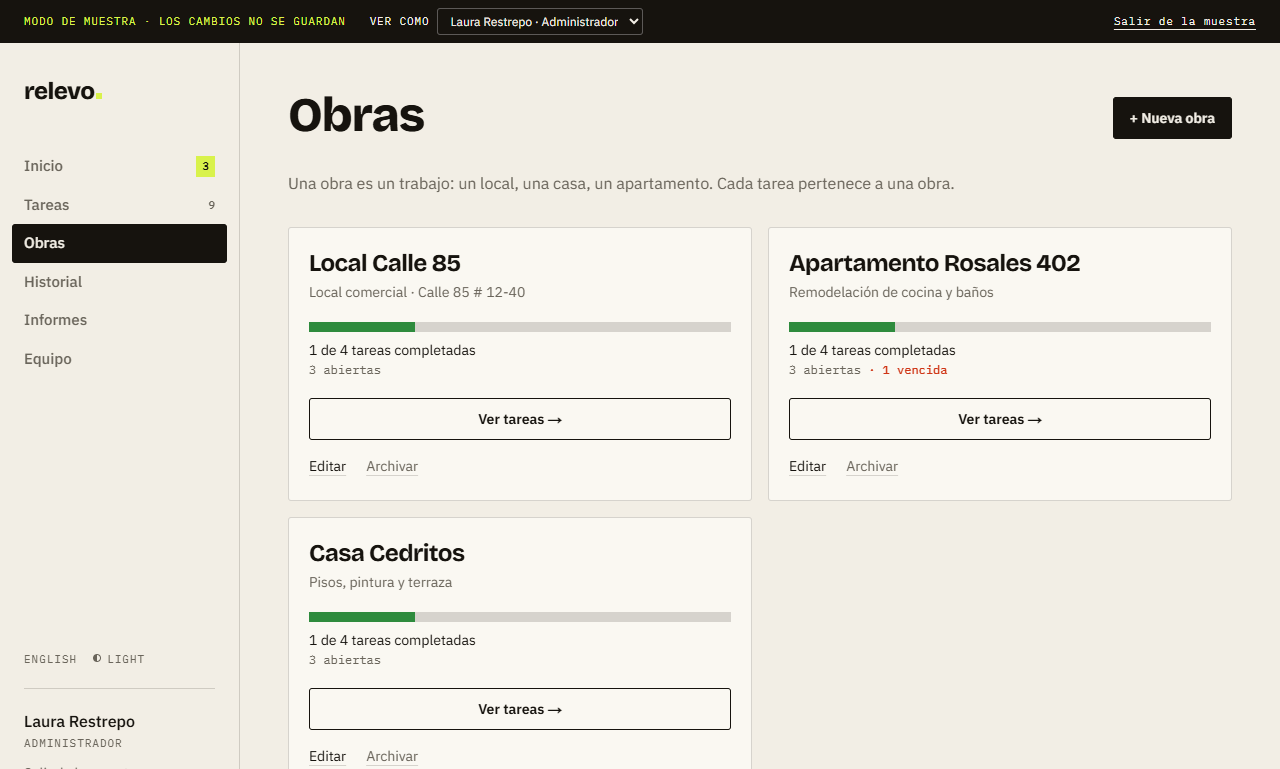
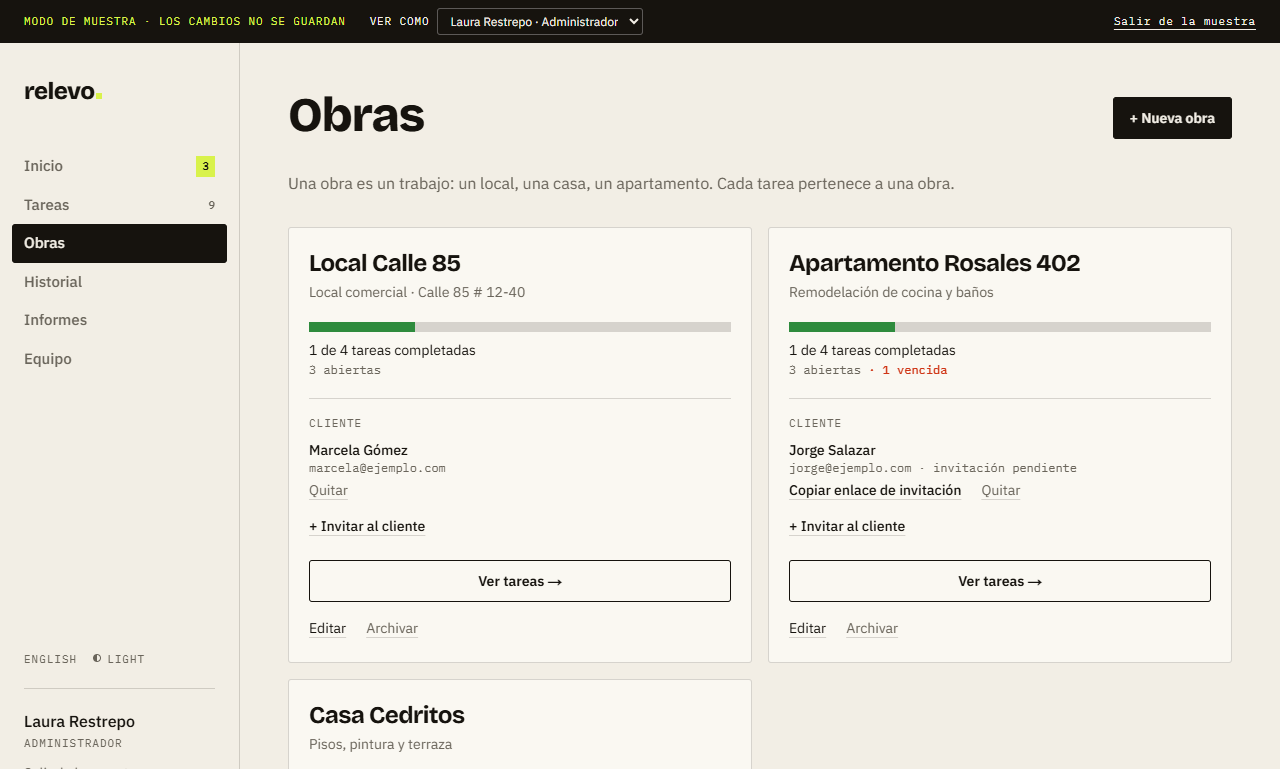
Capturas de la vista del cliente

diff --git a/fiverr/index.html b/fiverr/index.html
@@ -96,7 +96,7 @@ GOOD TO KNOW
 Message me before ordering to confirm the scope.</pre><button type="button" class="copiar">Copiar</button></div>
 <h3>6 · Preguntas frecuentes</h3><p class="nota">Cada bloque es una pregunta y su respuesta.</p><div class="par"><div class="copiable "><pre>Can a team member see other people&#x27;s tasks?</pre><button type="button" class="copiar">Copiar</button></div><div class="copiable "><pre>No. The database itself only returns each person their own tasks and history. The admin sees everything.</pre><button type="button" class="copiar">Copiar</button></div></div><div class="par"><div class="copiable "><pre>How do users get access?</pre><button type="button" class="copiar">Copiar</button></div><div class="copiable "><pre>The admin creates an invitation and sends a one-time link. Each person sets their own password, so the admin never knows it. Access can be deactivated at any time.</pre><button type="button" class="copiar">Copiar</button></div></div><div class="par"><div class="copiable "><pre>Can you change the statuses, fields or workflow?</pre><button type="button" class="copiar">Copiar</button></div><div class="copiable "><pre>Yes, in the Premium package or as a custom offer. Tell me what your process looks like and I will confirm what is needed before you order.</pre><button type="button" class="copiar">Copiar</button></div></div><div class="par"><div class="copiable "><pre>Does it send email notifications?</pre><button type="button" class="copiar">Copiar</button></div><div class="copiable "><pre>Account emails (confirmation and password reset) are included. Notifications for each task step are not included; I can add them as a custom extra.</pre><button type="button" class="copiar">Copiar</button></div></div><div class="par"><div class="copiable "><pre>Are there monthly costs?</pre><button type="button" class="copiar">Copiar</button></div><div class="copiable "><pre>The hosting and database services have free plans that are enough for a small team. Larger teams may need a paid plan, and I tell you what applies before you order.</pre><button type="button" class="copiar">Copiar</button></div></div>
 <h3>7 · Preguntas para el comprador</h3><p class="nota">Van en el paso «Requirements». Déjalas como texto libre.</p><div class="copiable "><pre>Your company or team name and your logo (if you have one).</pre><button type="button" class="copiar">Copiar</button></div><div class="copiable "><pre>How many people will use it, and who will be the admin (name and email)?</pre><button type="button" class="copiar">Copiar</button></div><div class="copiable "><pre>Does the workflow in the demo fit your process, or do you need changes?</pre><button type="button" class="copiar">Copiar</button></div><div class="copiable "><pre>Which language should the app start in: English or Spanish?</pre><button type="button" class="copiar">Copiar</button></div><div class="copiable "><pre>Do you already own a domain? If yes, where did you buy it?</pre><button type="button" class="copiar">Copiar</button></div>
-<h3>8 · Imágenes</h3><p class="nota">Están en la carpeta <code>fiverr/imagenes</code>, al lado de esta página.</p><div class="imgs"><a class="img" href="imagenes/1-portada.png" target="_blank"><img src="imagenes/1-portada.png" alt="Portada (súbela primero)" loading="lazy"><span>1-portada.png · Portada (súbela primero)</span></a><a class="img" href="imagenes/2-como-funciona.png" target="_blank"><img src="imagenes/2-como-funciona.png" alt="Cómo funciona" loading="lazy"><span>2-como-funciona.png · Cómo funciona</span></a><a class="img" href="imagenes/3-informes.png" target="_blank"><img src="imagenes/3-informes.png" alt="Informes" loading="lazy"><span>3-informes.png · Informes</span></a><a class="img" href="imagenes/extra-tablero-admin.png" target="_blank"><img src="imagenes/extra-tablero-admin.png" alt="Extra · Tablero del administrador" loading="lazy"><span>extra-tablero-admin.png · Extra · Tablero del administrador</span></a><a class="img" href="imagenes/extra-lista-de-tareas.png" target="_blank"><img src="imagenes/extra-lista-de-tareas.png" alt="Extra · Lista de tareas por obra" loading="lazy"><span>extra-lista-de-tareas.png · Extra · Lista de tareas por obra</span></a><a class="img" href="imagenes/extra-obras.png" target="_blank"><img src="imagenes/extra-obras.png" alt="Extra · Obras y su avance" loading="lazy"><span>extra-obras.png · Extra · Obras y su avance</span></a><a class="img" href="imagenes/extra-revision.png" target="_blank"><img src="imagenes/extra-revision.png" alt="Extra · Revisión de una entrega" loading="lazy"><span>extra-revision.png · Extra · Revisión de una entrega</span></a><a class="img" href="imagenes/extra-tablero-empleado.png" target="_blank"><img src="imagenes/extra-tablero-empleado.png" alt="Extra · Tablero del empleado" loading="lazy"><span>extra-tablero-empleado.png · Extra · Tablero del empleado</span></a><a class="img" href="imagenes/extra-tarea-empleado.png" target="_blank"><img src="imagenes/extra-tarea-empleado.png" alt="Extra · Tarea vista por el empleado" loading="lazy"><span>extra-tarea-empleado.png · Extra · Tarea vista por el empleado</span></a><a class="img" href="imagenes/extra-equipo.png" target="_blank"><img src="imagenes/extra-equipo.png" alt="Extra · Equipo e invitaciones" loading="lazy"><span>extra-equipo.png · Extra · Equipo e invitaciones</span></a><a class="img" href="imagenes/extra-historial.png" target="_blank"><img src="imagenes/extra-historial.png" alt="Extra · Historial" loading="lazy"><span>extra-historial.png · Extra · Historial</span></a><a class="img" href="imagenes/extra-modo-oscuro.png" target="_blank"><img src="imagenes/extra-modo-oscuro.png" alt="Extra · Modo oscuro" loading="lazy"><span>extra-modo-oscuro.png · Extra · Modo oscuro</span></a><a class="img" href="imagenes/extra-entrada.png" target="_blank"><img src="imagenes/extra-entrada.png" alt="Extra · Página de entrada" loading="lazy"><span>extra-entrada.png · Extra · Página de entrada</span></a><a class="img" href="imagenes/extra-espanol-tablero.png" target="_blank"><img src="imagenes/extra-espanol-tablero.png" alt="Extra · En español" loading="lazy"><span>extra-espanol-tablero.png · Extra · En español</span></a><a class="img" href="imagenes/extra-celular-tablero.png" target="_blank"><img src="imagenes/extra-celular-tablero.png" alt="Extra · Celular" loading="lazy"><span>extra-celular-tablero.png · Extra · Celular</span></a><a class="img" href="imagenes/extra-celular-tarea.png" target="_blank"><img src="imagenes/extra-celular-tarea.png" alt="Extra · Celular, una tarea" loading="lazy"><span>extra-celular-tarea.png · Extra · Celular, una tarea</span></a></div>
+<h3>8 · Imágenes</h3><p class="nota">Están en la carpeta <code>fiverr/imagenes</code>, al lado de esta página.</p><div class="imgs"><a class="img" href="imagenes/1-portada.png" target="_blank"><img src="imagenes/1-portada.png" alt="Portada (súbela primero)" loading="lazy"><span>1-portada.png · Portada (súbela primero)</span></a><a class="img" href="imagenes/2-como-funciona.png" target="_blank"><img src="imagenes/2-como-funciona.png" alt="Cómo funciona" loading="lazy"><span>2-como-funciona.png · Cómo funciona</span></a><a class="img" href="imagenes/3-informes.png" target="_blank"><img src="imagenes/3-informes.png" alt="Informes" loading="lazy"><span>3-informes.png · Informes</span></a><a class="img" href="imagenes/extra-tablero-admin.png" target="_blank"><img src="imagenes/extra-tablero-admin.png" alt="Extra · Tablero del administrador" loading="lazy"><span>extra-tablero-admin.png · Extra · Tablero del administrador</span></a><a class="img" href="imagenes/extra-lista-de-tareas.png" target="_blank"><img src="imagenes/extra-lista-de-tareas.png" alt="Extra · Lista de tareas por obra" loading="lazy"><span>extra-lista-de-tareas.png · Extra · Lista de tareas por obra</span></a><a class="img" href="imagenes/extra-obras.png" target="_blank"><img src="imagenes/extra-obras.png" alt="Extra · Obras, su avance y su cliente" loading="lazy"><span>extra-obras.png · Extra · Obras, su avance y su cliente</span></a><a class="img" href="imagenes/extra-cliente.png" target="_blank"><img src="imagenes/extra-cliente.png" alt="Extra · Lo que ve el cliente de la obra" loading="lazy"><span>extra-cliente.png · Extra · Lo que ve el cliente de la obra</span></a><a class="img" href="imagenes/extra-celular-cliente.png" target="_blank"><img src="imagenes/extra-celular-cliente.png" alt="Extra · Celular, vista del cliente" loading="lazy"><span>extra-celular-cliente.png · Extra · Celular, vista del cliente</span></a><a class="img" href="imagenes/extra-revision.png" target="_blank"><img src="imagenes/extra-revision.png" alt="Extra · Revisión de una entrega" loading="lazy"><span>extra-revision.png · Extra · Revisión de una entrega</span></a><a class="img" href="imagenes/extra-tablero-empleado.png" target="_blank"><img src="imagenes/extra-tablero-empleado.png" alt="Extra · Tablero del empleado" loading="lazy"><span>extra-tablero-empleado.png · Extra · Tablero del empleado</span></a><a class="img" href="imagenes/extra-tarea-empleado.png" target="_blank"><img src="imagenes/extra-tarea-empleado.png" alt="Extra · Tarea vista por el empleado" loading="lazy"><span>extra-tarea-empleado.png · Extra · Tarea vista por el empleado</span></a><a class="img" href="imagenes/extra-equipo.png" target="_blank"><img src="imagenes/extra-equipo.png" alt="Extra · Equipo e invitaciones" loading="lazy"><span>extra-equipo.png · Extra · Equipo e invitaciones</span></a><a class="img" href="imagenes/extra-historial.png" target="_blank"><img src="imagenes/extra-historial.png" alt="Extra · Historial" loading="lazy"><span>extra-historial.png · Extra · Historial</span></a><a class="img" href="imagenes/extra-modo-oscuro.png" target="_blank"><img src="imagenes/extra-modo-oscuro.png" alt="Extra · Modo oscuro" loading="lazy"><span>extra-modo-oscuro.png · Extra · Modo oscuro</span></a><a class="img" href="imagenes/extra-entrada.png" target="_blank"><img src="imagenes/extra-entrada.png" alt="Extra · Página de entrada" loading="lazy"><span>extra-entrada.png · Extra · Página de entrada</span></a><a class="img" href="imagenes/extra-espanol-tablero.png" target="_blank"><img src="imagenes/extra-espanol-tablero.png" alt="Extra · En español" loading="lazy"><span>extra-espanol-tablero.png · Extra · En español</span></a><a class="img" href="imagenes/extra-celular-tablero.png" target="_blank"><img src="imagenes/extra-celular-tablero.png" alt="Extra · Celular" loading="lazy"><span>extra-celular-tablero.png · Extra · Celular</span></a><a class="img" href="imagenes/extra-celular-tarea.png" target="_blank"><img src="imagenes/extra-celular-tarea.png" alt="Extra · Celular, una tarea" loading="lazy"><span>extra-celular-tarea.png · Extra · Celular, una tarea</span></a></div>
 </section>
 </main>
 <script>
